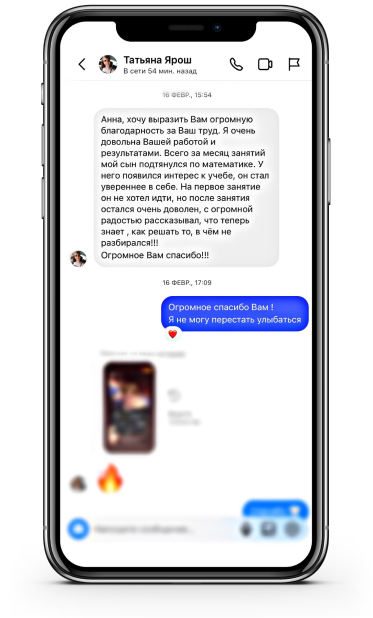
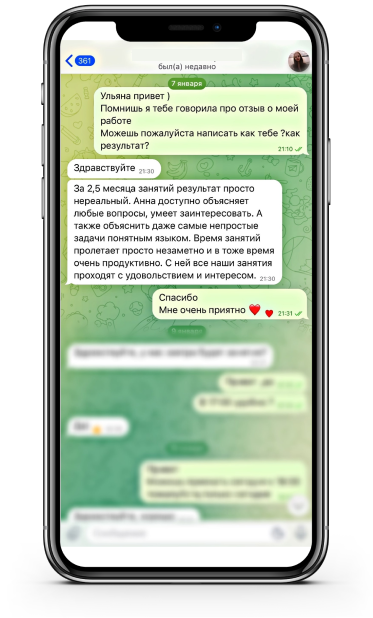
add modal logic and adaptivity

diff --git a/src/components/Modal/Modal.jsx b/src/components/Modal/Modal.jsx
@@ -5,7 +5,7 @@ import IconPhone from "../../components/UI/icons/IconPhone";
 import Cross from '../UI/Modal/Cross/Cross';
 
 const Modal = (props) => {
-    const { open, onClose } = props;
+    const { open, onClose, isSubmitted, setIsSubmitted } = props;
 
     const [name, setName] = useState('');
     const [phoneNumber, setPhoneNumber] = useState('');
@@ -20,17 +20,19 @@ const Modal = (props) => {
          Телефон: ${phoneNumber}                                                                                               
          Сообщение: ${message}
        `
-        const url = `https://api.telegram.org/bot${token}/sendMessage?chat_id=1198808944&text=${text}`;
+        const url = `https://api.telegram.org/bot${token}/sendMessage?chat_id=-935795902&text=${text}`;
         http(url, "GET");
         setName('');
         setPhoneNumber('');
         setMessage('');
+        setIsSubmitted(true);
        }
 
     if (open) {
         return (
-            <div className={styles.modal__background} >
-                <div className={styles.modal__card}>{props.children}
+            <div className={styles.modal__background}>
+                {!isSubmitted ?    
+                <div className={styles.modal__card}>            
                     <div className={styles.modal__header}>
                         <div>
                             <h3>Записаться на занятие</h3>
@@ -41,14 +43,16 @@ const Modal = (props) => {
                     </div>
                    
                     <div className={styles.modal__content}>
+                        
                         <div className={styles.modal__FormWrapper}>
-                            <form className={styles.modal__form}>
+                            <form onSubmit={(e) => sendMessage(e)} className={styles.modal__form}>
                                 <div className={styles.modal__formInputWrapper}>
                                     <input 
                                      className={styles.modal__input} 
                                      type="text" 
                                      placeholder="Ваше имя"
                                      value={name}
+                                     required
                                      onChange={(e) => setName(e.target.value)} 
                                      />
                                 </div>
@@ -58,6 +62,7 @@ const Modal = (props) => {
                                      type="text" 
                                      placeholder="Номер телефона"
                                      value={phoneNumber}
+                                     required
                                      onChange={(e) => setPhoneNumber(e.target.value)} 
                                      />
                                 </div>
@@ -67,11 +72,12 @@ const Modal = (props) => {
                                      type="text"
                                      placeholder="Ваше сообщение"
                                      value={message}
+                                     required
                                      onChange={(e) => setMessage(e.target.value)} 
                                     />
                                 </div>
                                 <div className={styles.modal__formBtnWrapper}>
-                                    <button onClick={(e) => sendMessage(e)} className={styles.modal__btn}>Записаться</button>
+                                    <button type="submit" className={styles.modal__btn}>Записаться</button>
                                 </div>
                             </form> 
                         </div>
@@ -80,6 +86,32 @@ const Modal = (props) => {
                         </div>
                     </div>
                 </div>
+
+                : 
+                    
+                <div className={styles.modal__card}>            
+                 <div className={styles.modal__header}>
+                     <div>
+                         <h3 className={styles.modal__thanksHeadline}>Спасибо за запись!</h3>
+                     </div>
+                     <div className={styles.modal__close} onClick={onClose}>
+                         <Cross />
+                     </div>
+                 </div>
+                
+                 <div className={styles.modal__content}>
+                     <div className={styles.modal__contentThanks}>
+                        <p>Ваша заявка принята, и я свяжусь с вами в ближайшее время.</p>
+                        <p>А пока вы ждете, приглашаю на мою 
+                            <a className={styles.modal__contentThanksHighlighted} href="https://www.instagram.com/_an_slastenko_/?igshid=YmMyMTA2M2Y%3D" target="_blank" rel="noopener noreferrer">страничку в Instagram!</a>
+                        </p>
+                        <p>Там очень много полезных материалов как для детей, так и для родителей!</p>
+                        <p>Если вам очень срочно нужно связаться со мной, позвоните мне: </p>
+                        <p className={styles.modal__contentThanksNumber}>+375 29 897-97-70 </p>
+                     </div>
+                 </div>
+             </div>  
+            }
             </div>
         );
     }

diff --git a/src/pages/Home/Home.jsx b/src/pages/Home/Home.jsx
@@ -12,6 +12,8 @@ import Magnifier from "../../assets/pages/Home/images/magnifier.png";
 import PhoneOne from "../../assets/pages/Home/images/reviews_phone1.png";
 import PhoneTwo from "../../assets/pages/Home/images/reviews_phone2.png";
 import PhoneThree from "../../assets/pages/Home/images/reviews_phone3.png";
+import PhoneFour from "../../assets/pages/Home/images/reviews_phone4.png";
+import PhoneFive from "../../assets/pages/Home/images/reviews_phone5.png";
 import IconPaper from "../../components/UI/icons/IconPaper";
 import IconLight from "../../components/UI/icons/IconLight";
 import IconTeacher from "../../components/UI/icons/IconTeacher";
@@ -36,22 +38,34 @@ const Home = () => {
     const [name, setName] = useState('');
     const [phoneNumber, setPhoneNumber] = useState('');
     const [message, setMessage] = useState('');
-    const [open, setOpen] = useState(true);
+    const [open, setOpen] = useState(false);
+    const [isSubmitted, setIsSubmitted] = useState(false);
 
     const token = process.env.REACT_APP_TOKEN;
 
     const sendMessage = (e) => {
      e.preventDefault();
      const text = `
-      Имя: ${name}                                                                                                         
-      Телефон: ${phoneNumber}
+      Имя: ${name}                                                                                                                                                      
+      Телефон: ${phoneNumber}                                                                                                                                                       
       Сообщение: ${message}
     `
-     const url = `https://api.telegram.org/bot${token}/sendMessage?chat_id=1198808944&text=${text}`;
+     const url = `https://api.telegram.org/bot${token}/sendMessage?chat_id=-935795902&text=${text}`;
      http(url, "GET");
      setName('');
      setPhoneNumber('');
      setMessage('');
+     setIsSubmitted(true);
+     setOpen(true);
+    }
+
+    const closeModal = () => {
+      setOpen(false);
+      setIsSubmitted(false);
+    }
+
+    const setSubmitted = () => {
+      setIsSubmitted(true);
     }
 
     const resizeImage = () => {
@@ -67,14 +81,16 @@ const Home = () => {
     }
 
     let slides = [
-      <img src={PhoneOne} alt="1" />,
-      <img src={PhoneTwo} alt="2" />,
-      <img src={PhoneThree} alt="2" />
+      <img width={280} src={PhoneOne} alt="1" />,
+      <img width={280} src={PhoneTwo} alt="2" />,
+      <img width={280} src={PhoneThree} alt="3" />,
+      <img width={280} src={PhoneFour} alt="4" />,
+      <img width={280} src={PhoneFive} alt="5" />
     ]
 
     return (
         <div className={styles.wrapper}>
-            <Modal open={open} onClose={() => setOpen(false)} />
+            <Modal open={open} onClose={closeModal} isSubmitted={isSubmitted} setIsSubmitted={setSubmitted} />
             <div className={styles.main} style={{background: `url(${BackgroundMain})`}}>
                 <div className={styles.main__container}>
                    <div className={styles.main__header}>
@@ -397,11 +413,12 @@ const Home = () => {
                   <IconContact />
                 </div>
                 <div className={styles.application__item}>
-                    <form className={styles.application__itemForm}>
+                    <form onSubmit={(e) => sendMessage(e)} className={styles.application__itemForm}>
                       <div className={styles.application__itemFormInputWrapper}>
                         <input 
                           className={styles.application__itemFormInput}
                           type="text"
+                          required
                           placeholder="Ваше имя"
                           value={name}
                           onChange={(e) => setName(e.target.value)}
@@ -411,6 +428,7 @@ const Home = () => {
                         <input
                           className={styles.application__itemFormInput}
                           type="number"
+                          required
                           placeholder="Ваш телефон"
                           value={phoneNumber}
                           onChange={(e) => setPhoneNumber(e.target.value)}
@@ -420,12 +438,13 @@ const Home = () => {
                         <textarea
                           className={styles.application__itemFormTextarea}
                           placeholder="Ваше сообщение"
+                          required
                           value={message}
                           onChange={(e) => setMessage(e.target.value)}
                         />
                       </div>
                       <div className={styles.application__itemFormBtnWrapper}>
-                        <button onClick={(e) => sendMessage(e)} className={styles.application__itemFormBtn}>Записаться</button>
+                        <button type="submit" className={styles.application__itemFormBtn}>Записаться</button>
                       </div>
                     </form>
                 </div>

diff --git a/src/components/Modal/Modal.module.scss b/src/components/Modal/Modal.module.scss
@@ -83,6 +83,14 @@
     .modal__card {
         width: 70%;
     }
+    .modal__contentThanks > p {
+        margin: 10px 3% !important;
+        text-align: left !important;
+    }
+    .modal__contentThanks > p:nth-child(3), p:nth-child(4) {
+        margin: 15px 8% !important;
+        text-align: left !important;
+    }
 }
 @media screen and (max-width: 762px) {
     .modal__header {
@@ -96,6 +104,9 @@
     .modal__card {
         width: 80%;
     }
+    .modal__thanksHeadline {
+        font-size: 32px !important;
+    }
 }
 @media screen and (max-width: 470px) {
     .modal__input {
@@ -106,4 +117,71 @@
     .modal__btn {
         padding: 15px 30px;
     }
+    .modal__thanksHeadline {
+        font-size: 22px !important;
+    }
+    .modal__contentThanksNumber {
+        text-align: left !important;
+    }
+}
+@media screen and (max-width: 281px) {
+    .modal__thanksHeadline {
+        font-size: 16px !important;
+    }
+    .modal__contentThanks > p {
+        margin: 10px 3% !important;
+        text-align: left !important;
+        font-size: 10px !important;
+        width: 100%;
+    }
+    .modal__contentThanks > p:nth-child(3), p:nth-child(4) {
+        margin: 10px 8% !important;
+        text-align: left !important;
+    }
+}
+@media screen and (max-height: 566px) {
+    .modal__thanksHeadline {
+        font-size: 22px !important;
+    }
+    .modal__contentThanks > p {
+        margin: 7px 3% !important;
+        text-align: left !important;
+        font-size: 16px !important;
+        width: 100%;
+    }
+    .modal__contentThanks > p:nth-child(3), p:nth-child(4) {
+        margin: 10px 8% !important;
+        text-align: left !important;
+    }
+}
+.modal__thanksHeadline {
+    color: #0390FB;
+    font-size: 40px;
+}
+.modal__contentThanks {
+    font-family: 'Jura', sans-serif;
+    font-size: 20px;
+    font-weight: 600;
+    margin: 5px auto;
+}
+.modal__contentThanks > p {
+    margin: 30px 3%;
+    text-align: center;
+}
+.modal__contentThanks > p:nth-child(3), p:nth-child(4) {
+    margin: 40px 8%;
+    text-align: center;
+}
+.modal__contentThanksHighlighted {
+    margin-left: 5px;
+}
+.modal__contentThanksHighlighted, .modal__contentThanksNumber {
+    color: #0390FB;
+}
+.modal__contentThanksNumber {
+    margin: 10px 0 0 0 !important;
+    text-align: center;
+    font-size: 24px;
+    width: 100%;
+    text-decoration: underline;
 }

diff --git a/src/components/Slider/Carousel.jsx b/src/components/Slider/Carousel.jsx
@@ -1,4 +1,4 @@
-import React, { useState, useEffect, useRef, useCallback } from 'react';
+import React, { useState, useEffect, useRef } from 'react';
 import { useSwipeable } from 'react-swipeable';
 import PropTypes from 'prop-types';
 import './style.scss';
